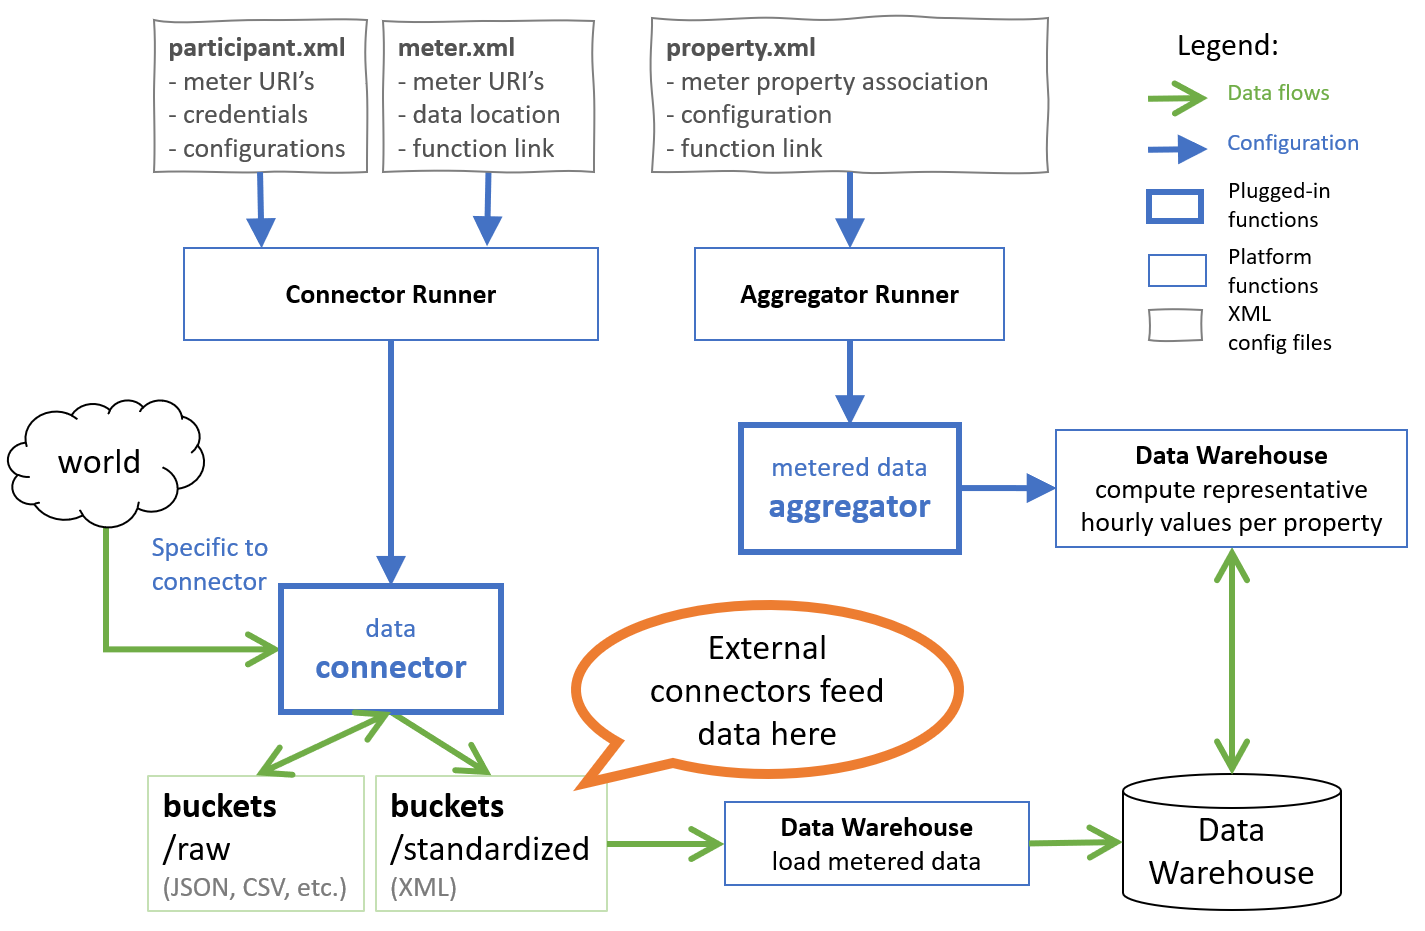
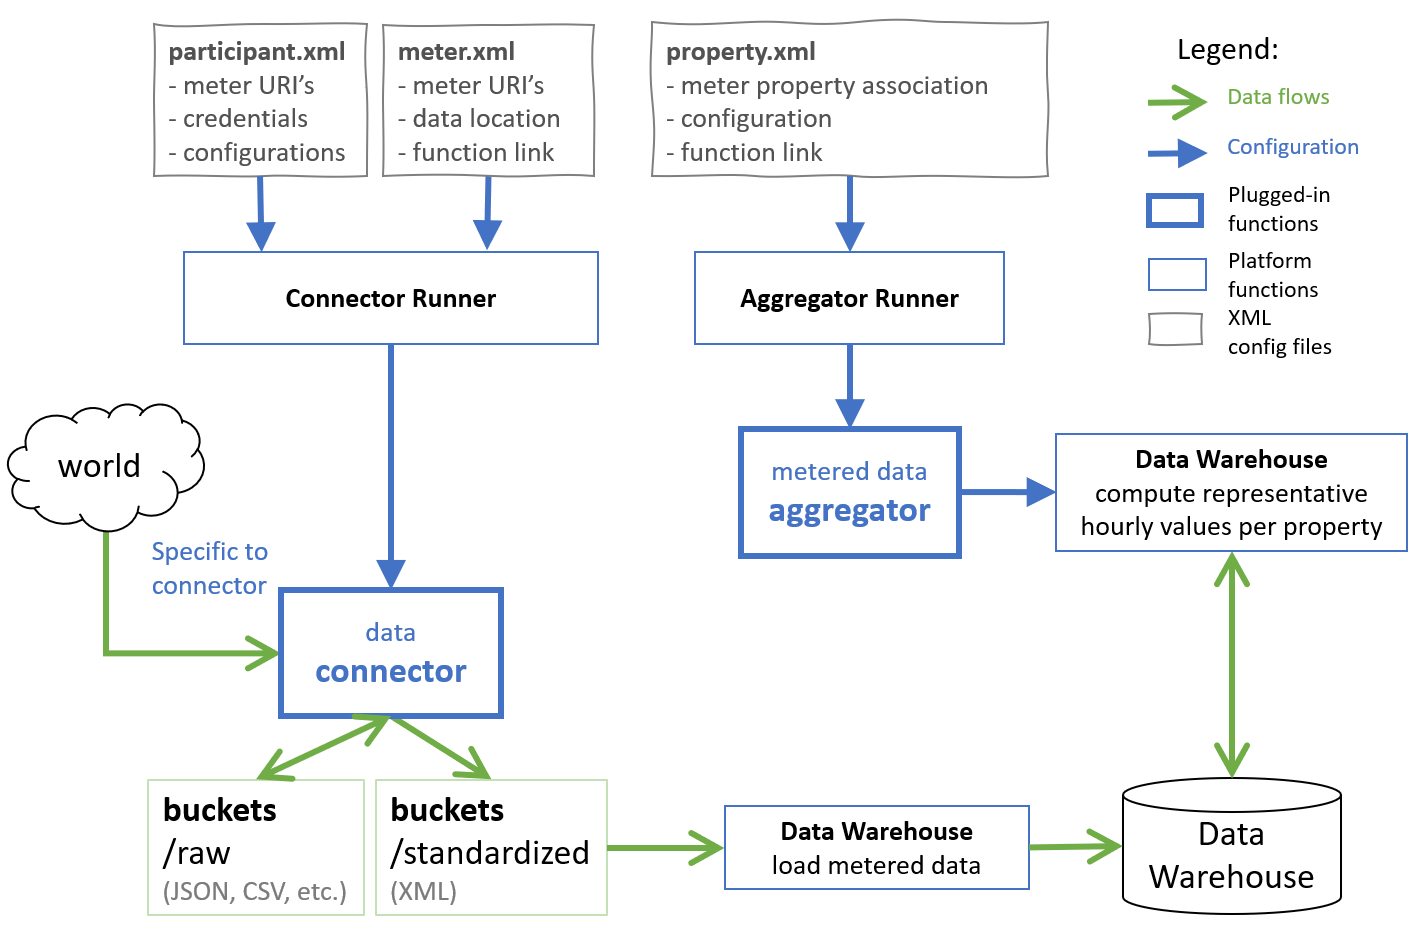
external connectors

diff --git a/docs/source/api.rst b/docs/source/api.rst
@@ -1,3 +1,45 @@
 API
 ===
 
+Data Upload API
+---------------
+
+Platform participants can upload their data using GCP cloud storage REST API. Data uploads are done to the special bucket called 'landing_zone'.
+Every hour a special internal landing zone connector is invoked that is pulling the new files from the landing zone and moving them into the standardized location.
+This internal landing zone connector is made to ensure that the third parties are isolated from the main data flow, and that the incoming files are checked prior to being accepted by the platform.
+
+The data flow for external connector is a variaton of the main data flow, as depicted in the figure below.
+
+.. figure:: data-flow-external-connectors.png
+   :width: 100%
+
+   Data flow for external connectors
+
+The data is pushed onto the `landing_zone` bucket by the external connectors, and this data becomes raw data for the system. Then the internal landing zone connector is 
+invoked given the configuration from the `properties.xml` files and is moving that data to 'standardized'. The data is linked to the meters that are described with their XML configuration files, same as all other meters.  
+
+The `landing_zone` bucket is subject to GCP conditional permissions:
+
++ each external connector is provided with a special service account
++ a separate directory is created in the `landing_zone` bucket with conditional permissions granting this service account write access
++ the service account is only granted permissions `Storage Object Creator` and `Storage Object Viewer`, without the object listing permissions. That is done because object listing permissions are defined for the whole bucket, and granting a connector permission to list objects would also allow listing objects that belong to other external connectors.   
+
+The permissions are GCP conditional, limited to each external connector's specific directory (file name prefix in GCP storage bucket terms). For example, external connector `ext_conn1` would be granted permissions
+
+.. code-block:: javascript
+  
+  resource.name.startsWith('projects/_/buckets/landing_zone/objects/ext_conn1')
+
+Accordingly, the external connectors can write a file, read that file knowing file name, but not list the uploaded files.
+
+Data Download API
+-----------------
+
+Platform participants can download their data using GCP cloud storage REST API and their login credentials to the platform. 
+If needed, service account credentials may be generated using GCP means to allows depersonalized data access. 
+ 
+Recorded data of a meter may be accessed with an HTTP call to a specific file in a specific bucket at URL `/b/BUCKET/o/OBJECT`, for example: 
+`/b/participant_1/coned/standardized/3/2021-11-08T14:00:00`
+that will refer to standardized readings of meter number 3 made on November 8, 2021, at 2 p.m. by a ConEd connector, operated by participant number 1 of a consortium. 
+
+Uploading data this way should be avoided because it will intervene with internal data processing flows. Uploading to a landing zone should be used instead, as described above.

diff --git a/docs/source/data.rst b/docs/source/data.rst
@@ -10,7 +10,10 @@ time period, and meta-information, similar to the following example:
 .. code-block:: xml
 
   <?xml version='1.0' encoding='UTF-8'?>
-  <bm:meterData xmlns:bm="http://benchmark8760.com/ns" xmlns:xsi="http://www.w3.org/2001/XMLSchema-instance" xmlns:espm="http://portfoliomanager.energystar.gov/ns" xsi:schemaLocation="http://benchmark8760.com/ns http://benchmark8760.com/ns/main.xsd">
+  <bm:meterData xmlns:bm="http://benchmark8760.com/ns" 
+                xmlns:xsi="http://www.w3.org/2001/XMLSchema-instance" 
+                xmlns:espm="http://portfoliomanager.energystar.gov/ns" 
+                xsi:schemaLocation="http://benchmark8760.com/ns http://benchmark8760.com/ns/main.xsd">
     <bm:meteredData>
       <bm:meterURI>participant_1/config/meter_occupancy.xml</bm:meterURI>
       <bm:startTime>2021-12-22T12:00:00</bm:startTime>

diff --git a/docs/source/architecture.rst b/docs/source/architecture.rst
@@ -38,12 +38,6 @@ The shared core is parsing these configurations to determine which cloud functio
 External connectors are not deployed with the platform, but are deployed externally and send standardized data directly to the GCP cloud storage buckets using the GCP cloud storage REST API. 
 They are not invoked by the shared core, and they are not configured in XML as invokable cloud functions. 
 
-
-Drop box
---------
-
-To ensure security external connectors are feeding the data into a special GCP storage bucket called 'dropbox'. The platform is then picking that data up and copying it to the appropriate locations for 'standardized' data.
-
 Data Warehouse
 --------------
 
